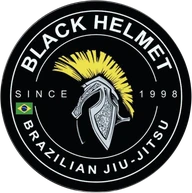
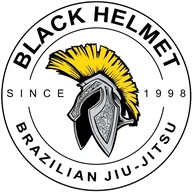
Atualiza a identidade visual da Black Helmet

diff --git a/src/components/ui.tsx b/src/components/ui.tsx
@@ -1,5 +1,5 @@
 import type { ReactNode } from "react";
-import { PHOTOS, TITLES } from "@/content/site";
+import { PHOTOS, SITE_NAME, TITLES } from "@/content/site";
 
 export const SealLabel = ({ children, className = "", left = false }: { children: ReactNode; className?: string; left?: boolean }) => (
   <p className={`seal-label ${left ? "left" : ""} ${className}`}>{children}</p>
@@ -23,15 +23,17 @@ export const RingStat = ({ value, label, tone = "dark" }: { value: string; label
   </div>
 );
 
-export const Selo = ({ size = 48, className = "", eager = false }: { size?: number; className?: string; eager?: boolean }) => (
+export const Selo = ({ size = 48, className = "", eager = false, alt = SITE_NAME }: { size?: number; className?: string; eager?: boolean; alt?: string }) => (
   <picture>
-    <source type="image/webp" srcSet="/img/selo-192.webp 192w, /img/selo-384.webp 384w" sizes={`${size}px`} />
+    <source type="image/webp" srcSet="/img/selo-96.webp 96w, /img/selo-192.webp 192w, /img/selo-384.webp 384w" sizes={`${size}px`} />
     <img
       src="/img/selo-192.png"
+      srcSet="/img/selo-96.png 96w, /img/selo-192.png 192w, /img/selo-384.png 384w"
+      sizes={`${size}px`}
       width={size}
       height={size}
-      alt="Selo Black Helmet Brazilian Jiu-Jitsu, desde 1998"
-      className={`rounded-full ${className}`}
+      alt={alt}
+      className={className}
       loading={eager ? "eager" : "lazy"}
       decoding="async"
     />
@@ -64,7 +66,7 @@ export const PhotoSlot = ({ id, className = "", ratio = "aspect-[4/5]" }: { id: 
         <circle cx="200" cy="250" r="140" fill="none" stroke="#f2f8f8" strokeOpacity=".08" strokeWidth="1" />
       </svg>
       {f.helmet ? (
-        <img src="/img/capacete.webp" alt="" loading="lazy" className="absolute left-1/2 top-1/2 w-[46%] -translate-x-1/2 -translate-y-1/2 opacity-90" />
+        <img src="/img/capacete.webp" alt="" width={417} height={501} loading="lazy" className="absolute left-1/2 top-1/2 w-[46%] -translate-x-1/2 -translate-y-1/2 opacity-90" />
       ) : (
         <div className="absolute inset-0 flex flex-col items-center justify-center px-6 text-center">
           <span className="font-display text-[clamp(72px,12vw,150px)] font-bold uppercase leading-none text-transparent" style={{ WebkitTextStroke: "2px #f1e306" }}>

diff --git a/src/components/Header.tsx b/src/components/Header.tsx
@@ -46,9 +46,9 @@ export const Header = ({ onHome = true, current: fixedCurrent }: { onHome?: bool
       }`}
     >
       <div className="wrap flex h-[64px] items-center justify-between gap-4 sm:h-[72px]">
-        <a href={onHome ? "#topo" : "/"} className="flex items-center gap-3" aria-label="Black Helmet Team, voltar ao início">
-          <Selo size={44} eager />
-          <span className="hidden font-body text-[13px] font-bold uppercase tracking-[0.14em] sm:block">Black Helmet</span>
+        <a href={onHome ? "#topo" : "/"} className="flex shrink-0 items-center gap-3" aria-label="Black Helmet Team, voltar ao início">
+          <Selo size={48} eager alt="" />
+          <span className="hidden whitespace-nowrap font-body text-[13px] font-bold uppercase tracking-[0.14em] sm:block lg:hidden xl:block">Black Helmet</span>
         </a>
         <nav aria-label="Menu principal" className="hidden lg:block">
           <ul className="flex items-center gap-6 text-[13px] xl:gap-7 font-medium text-steel">

diff --git a/index.html b/index.html
@@ -9,7 +9,8 @@
   <script>document.documentElement.classList.add("js")</script>
   <meta name="theme-color" content="#040507" />
   <meta name="format-detection" content="telephone=no" />
-  <link rel="icon" type="image/png" href="/img/favicon-64.png" />
+  <link rel="icon" type="image/png" sizes="32x32" href="/img/favicon-32.png" />
+  <link rel="icon" type="image/png" sizes="64x64" href="/img/favicon-64.png" />
   <link rel="apple-touch-icon" href="/img/apple-touch-icon.png" />
   <link rel="preload" href="/fonts/oswald-latin-600-normal.woff2" as="font" type="font/woff2" crossorigin />
   <link rel="preload" href="/fonts/montserrat-latin-500-normal.woff2" as="font" type="font/woff2" crossorigin />

diff --git a/src/pages/Home.tsx b/src/pages/Home.tsx
@@ -34,7 +34,7 @@ export const Home = () => {
             </svg>
             <div className="relative aspect-square">
               <div className="absolute inset-[14%] rounded-full bg-[radial-gradient(closest-side,rgba(204,216,224,0.16),transparent)]" />
-              <img src="/img/capacete.webp" alt="" width={299} height={368} {...{ fetchpriority: "high" }} className="absolute left-1/2 top-1/2 w-[52%] -translate-x-1/2 -translate-y-1/2" />
+              <img src="/img/capacete.webp" alt="" width={417} height={501} {...{ fetchpriority: "high" }} className="absolute left-1/2 top-1/2 w-[52%] -translate-x-1/2 -translate-y-1/2" />
             </div>
           </div>
 

diff --git a/src/pages/Privacy.tsx b/src/pages/Privacy.tsx
@@ -8,7 +8,7 @@ const LEAD_WEBHOOK = Boolean(import.meta.env.VITE_LEAD_WEBHOOK);
 export const Privacy = () => (
   <>
     <header className="border-b border-graphite">
-      <div className="wrap flex h-[72px] items-center"><a href="/" aria-label="Voltar ao início"><Selo size={44} eager /></a></div>
+      <div className="wrap flex h-[72px] items-center"><a href="/" aria-label="Voltar ao início"><Selo size={48} eager alt="" /></a></div>
     </header>
     <main className="wrap max-w-3xl py-16 text-steel">
       <h1 className="font-display text-[44px] font-semibold leading-none text-ring">Política de privacidade</h1>

diff --git a/src/pages/Links.tsx b/src/pages/Links.tsx
@@ -37,7 +37,7 @@ export const Links = () => (
 
     <div className="relative mx-auto w-full max-w-[440px] px-5">
       <header className="rise text-center">
-        <Selo size={112} eager className="mx-auto" />
+        <Selo size={112} eager alt="" className="mx-auto" />
         <h1 className="mt-6 font-display text-[34px] font-semibold uppercase leading-none tracking-[0.04em]">Black Helmet Team</h1>
         <SealLabel className="mt-4 justify-center text-steel">Blumenau · desde 1998</SealLabel>
         <p className="mt-5 font-display text-[22px] font-light leading-tight text-ring/90">

diff --git a/src/components/Footer.tsx b/src/components/Footer.tsx
@@ -5,7 +5,7 @@ import { Selo } from "./ui";
 export const Footer = () => (
   <footer className="border-t border-graphite bg-helmet pb-28 pt-14 lg:pb-10">
     <div className="wrap grid gap-10 sm:grid-cols-[auto_1fr_auto] sm:items-center">
-      <Selo size={88} />
+      <Selo size={88} alt="" />
       <div className="text-[14px] leading-relaxed text-steel-mid">
         <p className="font-semibold text-steel">Black Helmet Team · Jiu-Jitsu em Blumenau desde 1998</p>
         <p>{ADDRESS_LINE}</p>

diff --git a/scripts/og/share.html b/scripts/og/share.html
@@ -19,7 +19,7 @@
   /* Selo centrado em (928, 315): caixa de 580px com os dois anéis e o selo de 420px no meio. */
   .seal { position: absolute; left: 638px; top: 25px; width: 580px; height: 580px; }
   .seal svg { position: absolute; inset: 0; }
-  .seal img { position: absolute; left: 80px; top: 80px; width: 420px; height: 420px; border-radius: 50%; }
+  .seal img { position: absolute; left: 80px; top: 80px; width: 420px; height: 420px; }
 </style>
 </head>
 <body>
